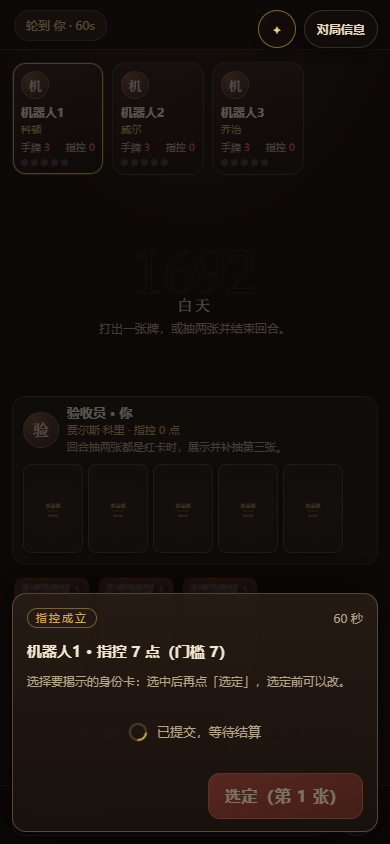
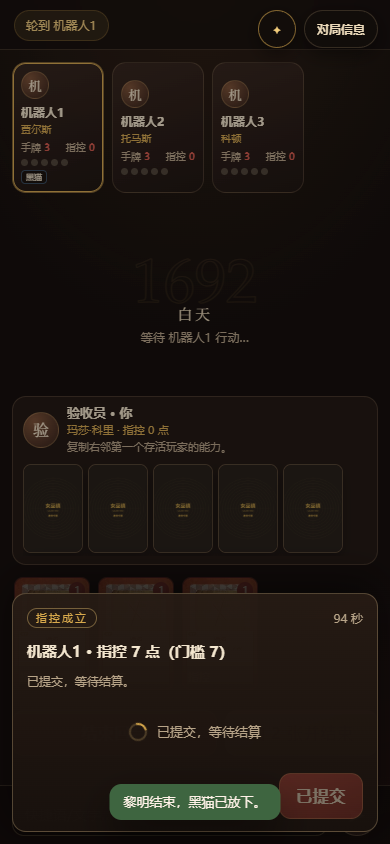
fix(web): 代翻收尾先 arm 再 render，900ms 真正可见（#69）

diff --git a/apps/web/app.js b/apps/web/app.js
@@ -449,9 +449,11 @@ function handle(msg) {
       // 挂起揭示的公开信号在消息顶层：选择者另有 projection.pendingReveal，其他人只有这一条。
       S.revealWait = msg.revealWait ?? null;
       if (msg.room) S.room = msg.room;
-      render();
       // 翻身份卡是全桌可见的公开事件：投影一到就把新增的那几条挑出来，不等玩家自己开日志。
+      // 必须先认领（并在 auto 时 arm 收尾窗口）再 render：否则挂起态消失的那条投影会先把抽屉关掉，
+      // 900ms 的收尾说明永远看不见（#69）。
       announceReveals();
+      render();
       break;
     case "events":
       // projection already carries the full log; events are a prompt to refresh nothing.
@@ -1015,9 +1017,20 @@ function renderRevealDrawer() {
   }
   const view = S.projection?.pendingReveal ?? null;
   if (!view && S.revealAfterglowUntil > performance.now()) {
-    // 收尾态：不重渲染、不关抽屉，只把话说清并让点击穿透回牌桌。
+    // 收尾态：收掉选择指令、卡片与按钮，只留一句说明并让点击穿透回牌桌。
     const note = bar.querySelector('[data-slot="note"]');
     if (note) note.textContent = REVEAL_AFTERGLOW_TEXT;
+    const sub = bar.querySelector('[data-slot="sub"]');
+    if (sub) sub.textContent = "已自动翻开一张，等待结算。";
+    const cards = bar.querySelector('[data-slot="cards"]');
+    if (cards) cards.hidden = true;
+    const submit = bar.querySelector('[data-slot="submit"]');
+    if (submit) {
+      submit.textContent = "等待结算";
+      submit.disabled = true;
+    }
+    const decline = bar.querySelector('[data-slot="decline"]');
+    if (decline) decline.hidden = true;
     bar.style.pointerEvents = "none";
     setRevealStage(false);
     return;

diff --git a/apps/web/test/reveal-drawer.test.js b/apps/web/test/reveal-drawer.test.js
@@ -142,6 +142,16 @@ test("自动代翻后抽屉留一会儿把话说清，且不拦截牌桌点击",
   const drawer = bodyOf(app, "function renderRevealDrawer()");
   assert.match(drawer, /S\.revealAfterglowUntil > performance\.now\(\)/, "收尾窗口内不关抽屉");
   assert.match(drawer, /note\.textContent = REVEAL_AFTERGLOW_TEXT/, "把 note 换成那句说明");
+  assert.match(drawer, /sub\.textContent = "已自动翻开一张，等待结算。"/, "副标题别再留着「选中后再点选定」");
+  assert.match(drawer, /cards\.hidden = true/, "收尾期间卡片收起，别像还能选");
+  assert.match(drawer, /submit\.textContent = "等待结算"/, "主按钮换成等待结算");
+  assert.match(drawer, /decline\.hidden = true/, "放弃按钮收起");
+  // 收尾窗口必须在 render 之前记下：否则挂起态消失的那条投影先把抽屉关掉，900ms 的说明永远看不见（#69）。
+  const projectionCase = app.slice(app.indexOf('case "projection"'), app.indexOf('case "events"'));
+  assert.ok(
+    projectionCase.indexOf("announceReveals()") < projectionCase.indexOf("render()"),
+    "先认领新翻牌（并 arm 收尾）再 render",
+  );
   assert.match(drawer, /bar\.style\.pointerEvents = "none"/, "收尾期间点击穿透回牌桌");
   assert.match(drawer, /bar\.style\.pointerEvents = ""/, "离开收尾态要还原");
   assert.match(bodyOf(app, "function resetRoomState()"), /S\.revealAfterglowUntil = 0/, "换房/退房要清干净");

diff --git a/apps/web/sw.js b/apps/web/sw.js
@@ -14,7 +14,7 @@
 // salem-v22：挂起揭示迁到共享抽屉（两步选定、放弃、等待与时钟），旧的顶部 revealBar 已删。
 // salem-v23：起因与两个数字改由挂起态自带（#68），标题按起因分支，选择者与等待者同形。
 // salem-v24：自动代翻后抽屉留 900ms 说清「超时或托管，自动取了第一个位置」（#64 口径）。
-// salem-v25：揭示抽屉提交后不再教人怎么选（副标题与按钮一起换成「已提交，等待结算」。）
+// salem-v25：揭示抽屉提交后不再教人怎么选；代翻收尾先 arm 再 render，900ms 才真正可见（#69）。
 const VERSION = "salem-v25";
 const SHELL = [
   "/",

diff --git a/docs/acceptance/reveal-drawer.md b/docs/acceptance/reveal-drawer.md
@@ -49,7 +49,7 @@ $env:PLAYERS='4';  node test/fullgame_bots.mjs   # 同理 9 / 12
 | 包 | 结果 |
 | --- | --- |
 | `packages/rules` | 70 / 70 |
-| `apps/web` | 208 / 208 |
+| `apps/web` | 209 / 209 |
 | `apps/server` | 10 / 10 脚本（12 人整局 `conspiracy=12/12`、`errors=0`） |
 
 人数回归（`fullgame_bots.mjs`，各 1 局，对 8700 实例）：
@@ -120,36 +120,34 @@ $env:PLAYERS='4';  node test/fullgame_bots.mjs   # 同理 9 / 12
 - 另有真机实拍（非注入）：`reveal-drawer-{4p-chooser,9p-chooser,4p-reduced,4p-off,chooser,picked}.png`
   与 `reveal-drawer-auto-afterglow.png`（#69 复现的收尾态，见第四节第 1 条）。
 
-### 自动代翻收尾的实际可见性（探针，2026-11-08）
+### 自动代翻收尾的实际可见性（探针，#69 修复后）
 
-代码里有 900ms 收尾窗口（`armRevealAfterglow` / `S.revealAfterglowUntil`），但探针发现**抽屉在这 900ms 里并不在屏上**：
-`handle()` 先 `render()` 再 `announceReveals()`，投影到达时 `pendingReveal` 已为空，`renderRevealDrawer()` 当场 `setDrawerOpen(false)`；
-随后 `armRevealAfterglow()` 才记下截止时间，而收尾分支只改 note 与 `pointer-events`，**不会重新打开抽屉**。
+`#69` 把 `handle()` 的顺序改成 `announceReveals()` 先于 `render()`：投影到达时先认领那条 `auto:true` 的翻牌并 arm 收尾窗口，
+随后 `render()` 走收尾分支，抽屉不关；`note` 换成「超时或托管，自动取了第一个位置。」、`sub` 换成「已自动翻开一张，等待结算。」、
+卡片与「放弃」收起、主按钮改「等待结算」且 disabled、整条 `pointer-events:none`。
 实测（先注入挂起让抽屉打开，再注入带 `auto:true` 的 `trialRevealed`）：
 
 | 距注入 | drawer.hidden | note | pointerEvents | 剩余收尾窗口 |
 | --- | --- | --- | --- | --- |
-| 0ms | true | 「超时或托管会自动取第一个未揭示位置。」 | `''` | 900ms |
-| 152ms | true | 同上 | `''` | 748ms |
-| 463ms | true | 「超时或托管，自动取了第一个位置。」 | `none` | 437ms |
-| 1069ms | true | 同上 | `''` | 已过期 |
+| 0ms | false | 「超时或托管，自动取了第一个位置。」 | `none` | 900ms |
+| 152ms | false | 同上 | `none` | 748ms |
+| 459ms | false | 同上 | `none` | 440ms |
+| 1064ms | true | 同上（随后随抽屉一起收起） | `''` | 已过期 |
 
-结论：文案与点击穿透会生效，但「留屏 900ms」这一条**视觉上不成立**，已回填 #69。
-（本轮改用 `TURN_MS='20000'` 走真实超时路径复现，量到相反结果——抽屉 `open: true`、`pointer-events: none`、
-note 已换句，见第四节第 1 条与 `shots/reveal-drawer-auto-afterglow.png`。）
+修复前同一探针整段窗口量到 `hidden === true`（`render()` 先关抽屉、`armRevealAfterglow()` 后到，收尾分支又不重开）；
+`TURN_MS='20000'` 的真实超时路径当时偶发能量到 `open: true`，即缺陷依赖调用时序。现在顺序固定，两条路径走同一段代码。
+截图：`docs/acceptance/shots/4p-auto-afterglow.png`（窗口内整条抽屉在屏、卡片已收、脚注完整）。
 
 
 ## 四、已知偏差与没能做到的
 
-1. **自动代翻「留屏 900ms」两次测量的结论不一致**。并行探针（`#64` 补记）在默认 `TURN_MS` 下量到
-   整段窗口 `#revealDrawer.hidden === true`，判「视觉上不成立」；本轮用 `TURN_MS='20000'` 复现，
-   量到 `open: true`、`pointer-events: none`、`note` 已换成「超时或托管，自动取了第一个位置。」，
-   并拍到 `shots/reveal-drawer-auto-afterglow.png`。差异只能出在时序：`renderRevealDrawer()` 若在
-   `armRevealAfterglow()` 之前被调用，抽屉当帧就被关掉，而收尾分支只改 note 不重开。
-   结论：机制生效，但依赖调用顺序，**留待单独开票排查 `announceReveals()` 与 `renderGame()` 的先后**。
-2. **「已提交，等待结算」这一帧拍不到**。挂起揭示是单人决策：提交即结算，服务端下一条投影里
+1. ~~**自动代翻「留屏 900ms」视觉上不成立**~~：**已修（#69）**。顺序改为 `announceReveals()` 先于 `render()`，
+   探针四拍都量到抽屉在屏（见上节表）；此前「两次测量不一致」的时序依赖也一并消失。
+   实拍补了 `shots/4p-auto-afterglow.png`（注入路径）与 `shots/reveal-drawer-auto-afterglow.png`（真实超时路径）。
+2. **「已提交，等待结算」这一帧真实对局里拍不到**。挂起揭示是单人决策：提交即结算，服务端下一条投影里
    `pendingReveal` 已经没了，抽屉直接关（实测提交后 50ms `#revealDrawer.hidden === true`）。
-   #69 把 `submitted` 分支的副标题与按钮改成「已提交，等待结算。」/「已提交」只是把它写对，
+   `submitted` 分支的副标题与按钮改成「已提交，等待结算。」/「已提交」是把这个瞬间的文案写对；
+   注入法可在屏上量到并拍下 `shots/4p-submitted.png`。
    断言在 `reveal-drawer.test.js`「交出去之后不再教人怎么选」。
 3. **诅咒与嫁祸没有真机实拍**。两者都要手牌里正好有 `curse` / `scapegoat`，靠对局随机凑不稳；
    覆盖率由 `packages/rules/test/pending-reveal.test.ts`「三种起因都给数字」与
